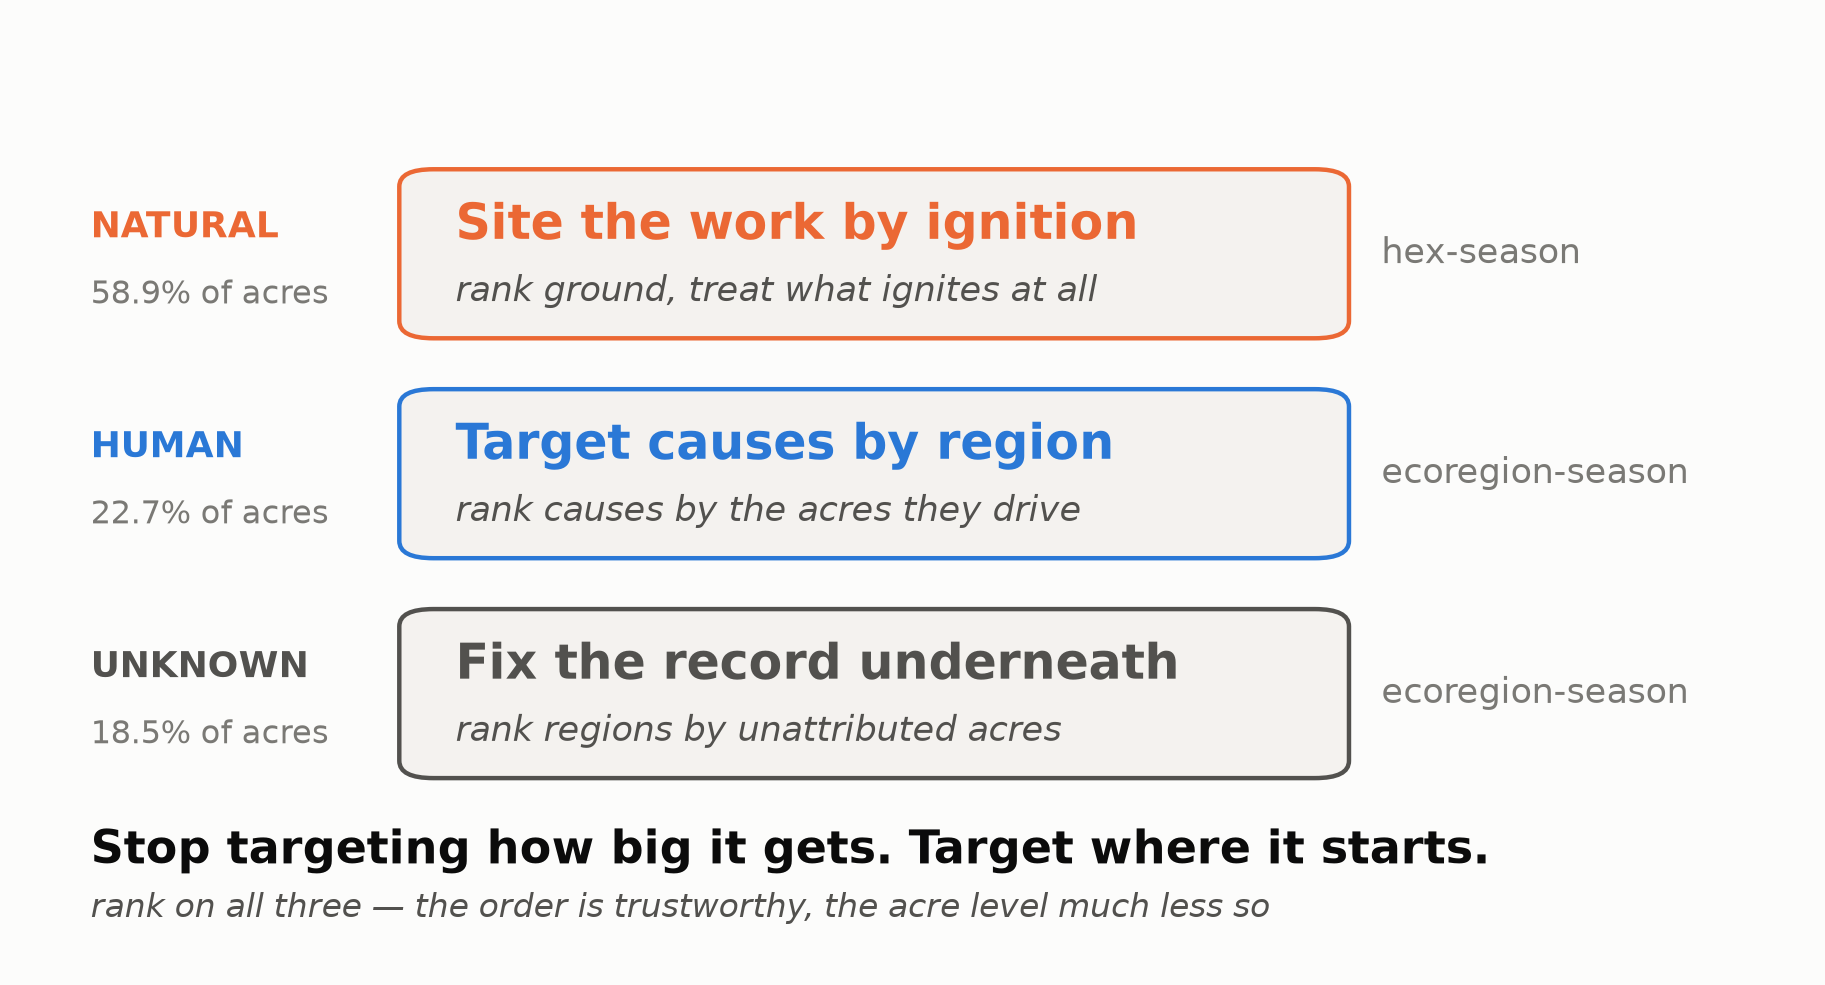
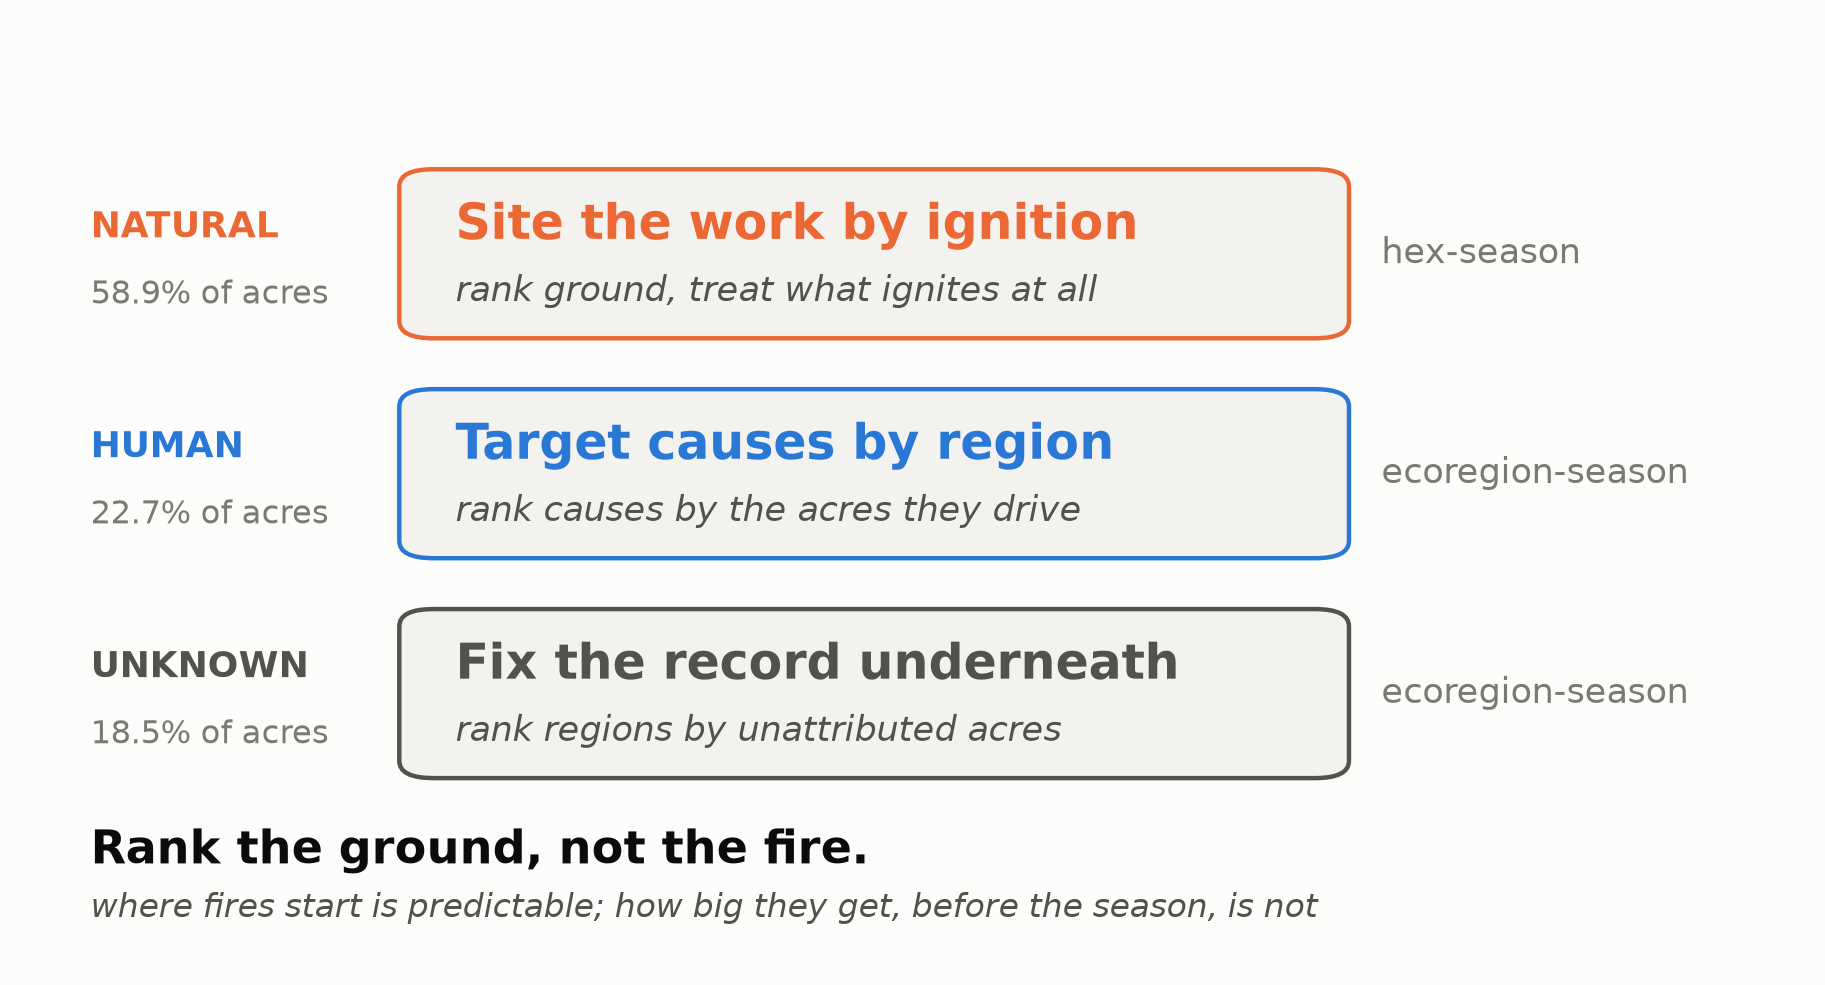
Update slide 16's figure to match the retitle
Two lines, neither about the three products. The bold closer was the W6
title, which slide 0 no longer carries -- the figure was asserting a
phrasing found nowhere else in the deck. It now repeats the title
verbatim, making the bookend visual and free.

The subtitle printed the boundary, which is exactly what the spoken
closer says -- I had just rewritten that SAY to say what the figure could
not, and the figure was already saying it. It now states the finding the
recommendation rests on: where fires start is predictable, how big they
get before the season is not.

Adds the regeneration cell to notebook 16 (unexecuted) and corrects two
script notes describing the old figure.

Changed region(s): [[0.0312, 0.8223, 0.8121, 0.8832], [0.0312, 0.9137, 0.7184, 0.9442]]

diff --git a/src/w6_visuals.py b/src/w6_visuals.py
@@ -1073,14 +1073,16 @@ def plot_recommendation(out_path: Path, *,
     # The slide has to *land* the talk, not summarize it. An earlier version
     # closed on "three products, because the model has three classes" -- true,
     # and a specification rather than a conclusion. The recommendation is the
-    # change in what gets targeted, so that is what the closing line says; the
-    # reliability caveat follows it, because a recommendation without its
-    # boundary is the thing this deck has spent five beats refusing to do.
+    # The closing line repeats the title verbatim, so the deck opens and closes
+    # on the same words while the SPOKEN closer carries the boundary ("trust the
+    # order, not the number"). Printing the boundary here as well duplicated the
+    # narration in the same ten seconds; the subtitle now states the finding the
+    # recommendation rests on instead, which nothing else on this figure says.
     ax.text(0.018, 0.082,
-            "Stop targeting how big it gets. Target where it starts.",
+            "Rank the ground, not the fire.",
             fontsize=16.5, fontweight="bold", color=TEXT_PRIMARY, va="center")
     ax.text(0.018, 0.016,
-            "rank on all three \u2014 the order is trustworthy, the acre level much less so",
+            "where fires start is predictable; how big they get, before the season, is not",
             fontsize=12, color=TEXT_SECONDARY, style="italic", va="center")
 
     fig.savefig(out_path, dpi=200, facecolor=SURFACE, bbox_inches="tight",

diff --git a/coursework/collaboration_log.md b/coursework/collaboration_log.md
@@ -1645,3 +1645,13 @@ Week 4 opens the modeling design against the cleaned analysis grain (`data/regio
 - **One stale note caught in the sweep.** Slide 16's WATCH still described the figure's printed line as a repetition of the title. It is no longer a repetition, so the note now says this is the only place that imperative appears and it appears in writing.
 - **Deck at 1,324 words**, 9:23 at 150 wpm with transitions, 10:45 at 130. The `.pptx` title slide is updated; the formal project title and byline are untouched.
 - **What this changed:** title slide text in the deck and script, slide 0's SAY and three WATCH lines, one WATCH line on slide 16, timing table.
+
+### Entry 7.35
+- **Date:** 2026-08-17
+- **What was going on:** I asked whether slide 16's graphic needed fixing after the retitle. It did, and for two reasons — one I expected and one I did not.
+- **The expected one:** the figure's bold closing line was still *"Stop targeting how big it gets. Target where it starts."* — the W6 title. With slide 0 now reading *Rank the ground, not the fire*, the closing figure was asserting a phrasing that appeared nowhere else in the deck.
+- **The one I did not expect, and it is the better catch:** the figure's subtitle already read *"rank on all three — the order is trustworthy, the acre level much less so."* That is **exactly what I had just written into the spoken closer** — "trust the order, not the number." I had rewritten slide 16's SAY specifically to say what the figure could not, and the figure was already saying it. Ten seconds of duplication I would have delivered without noticing.
+- **The fix swaps the roles.** The bold line now repeats the title verbatim, so the bookend is **visual and costs no speaking time**. The subtitle now states the finding the recommendation rests on — *where fires start is predictable; how big they get, before the season, is not* — which nothing else on the figure says. The spoken closer keeps the boundary to itself.
+- **The general rule this is the third instance of:** the figure and the narration should not carry the same sentence. Check the figure before writing the SAY, not after. Slides 5, 7 and now 16 were all cut for the same defect.
+- **The three product rows are untouched** — shares, actions and grains all unchanged. Only the two lines beneath moved.
+- **What this changed:** `plot_recommendation` in `src/w6_visuals.py` (both text lines and the comment explaining the old choice); `img/w6_recommendation.png` regenerated; three cells appended to `notebook/16_w7_visuals.ipynb`, **unexecuted**; two script notes that described the old figure. The notebook needs a run to populate them.

diff --git a/coursework/W7/final_script.md b/coursework/W7/final_script.md
@@ -583,14 +583,14 @@ The one genuinely movable piece is **slide 9**, which is not part of the repair 
 **EVIDENCE**
 
 - Three rows, one per Tier-1 class, ordered by share so the top row is where the acres are: Natural 58.9%, site by ignition, hex-season; Human 22.7%, rank causes by the acres they drive, ecoregion-season; Unknown 18.5%, fix the record underneath, ecoregion-season.
-- The boundary, on the line beneath: rank on all three — the order is trustworthy and the acre level much less so.
+- The line beneath states the finding the recommendation rests on: where fires start is predictable; how big they get, before the season, is not. **The boundary — trust the order, not the number — is spoken only**, so it is the one thing on this slide the audience cannot read for themselves.
 
 **WATCH**
 
 - A TARGETING claim, not an efficacy one. Nothing here measures what a treatment achieves — no before/after, no control, no counterfactual.
 - If asked "so if we treat those hexes, we cut the burn?" — say no, plainly. Davis et al. (2024) on severity reduction is separate evidence from someone else's study; cite it if asked, do not fold it in.
 - If they remember one thing: site the work against where fires start, because that is the one stage of the escalation this data can see in advance.
-- **The figure prints "Stop targeting how big it gets. Target where it starts." beneath the three rows, and the SAY does not read it.** The title slide no longer carries that sentence — it says "rank the ground, not the fire" — so this is the only place the imperative appears, and it appears in writing. Saying it aloud is available if the room wants it landed, but the SAY's boundary line is the better use of the time.
+- **The figure now prints the title verbatim — "Rank the ground, not the fire" — so the bookend is visual and costs no speaking time.** Do not read it aloud; the SAY's boundary line is what the screen does not say. The figure's subtitle carries the finding underneath ("where fires start is predictable; how big they get, before the season, is not"), which is also not worth reading out.
 - **"Trust the order, not the number" is the deck's most important limitation and this is its last statement.** Every product ships as a ranking. The Human branch's composed acre level runs 2x low at p10 and 8x high at p90; the ignition surface ranks well and under-predicts the busiest cells. Rankings are scale-invariant and survive that; acre counts do not.
 
 **TIME —** 0:35
